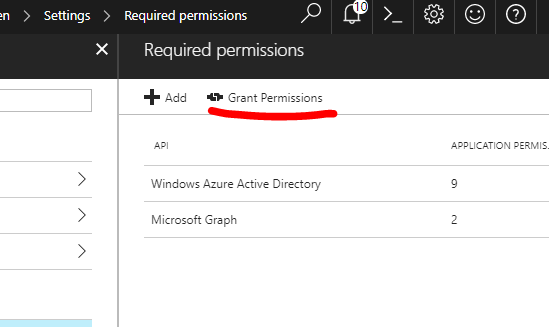
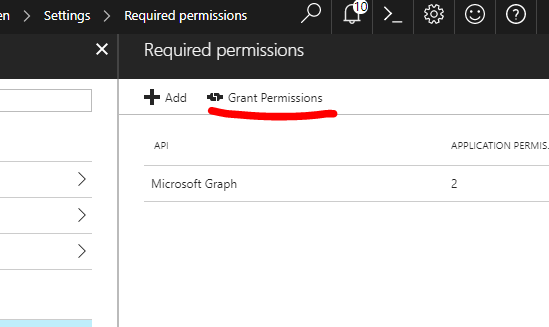
update directory docs

Changed region(s): [[0.2787, 0.6422, 0.4335, 0.7034], [0.2787, 0.5505, 0.5883, 0.581], [0.8051, 0.5505, 0.8361, 0.581]]

diff --git a/_articles/directory-connector/azure-active-directory.md b/_articles/directory-connector/azure-active-directory.md
@@ -43,9 +43,7 @@ This article will cover how to connect the Bitwarden Directory Connector tool to
 
 1. Select the **Bitwarden** application you created in the previous section.
 2. Navigate to **Settings** and select **Required Permissions**.
-3. Select the existing **Windows Azure Active Directory** API.
-4. Check **all** Application and Delegated permissions and click **Save**.
-   {% image directory-connector/azure/directory-permissions.png %}
+3. Delete the existing **Windows Azure Active Directory** API permission set that is automatically created by default. It is not needed.
 5. Select the **Add** button to create a new API permission set.
 6. For step 1, **Select an API** for **Microsoft Graph**.
 7. For step 2, **Select Permissions** for the following:
@@ -78,15 +76,15 @@ This article will cover how to connect the Bitwarden Directory Connector tool to
 
 ## Get Your Tenant Hostname
 
-1. Select your username in the top right corner of the Azure Portal.
+1. Select the **Directory and Subscription** filter in the top right corner of the Azure Portal.
 2. Note the **hostname** value that appears under your directory (ex. company.onmicrosoft.com). This is your **Tenant** hostname. Copy the **Tenant** hostname to a safe place. We will need to reference it later.
    {% image directory-connector/azure/tenant.png %}
 
 ## Configure Directory Connector
 
-1. Launch the Directory Connector console by double clicking the shortcut. 
-2. Select option 3 (Configure directory connection) from the main menu.
-3. Select **Azure Active Directory** as the type.
+1. Launch the Directory Connector desktop application
+2. Go to the **Settings** tab.
+3. Select **Azure Active Directory** as the directory type.
 6. Enter the **Tenant** hostname that you copied from the steps above (ex. company.onmicrosoft.com).
 7. Enter the **Application ID** that you copied from the steps above.
 8. Enter the Application **Secret** Key that you copied from the steps above.
@@ -94,7 +92,6 @@ This article will cover how to connect the Bitwarden Directory Connector tool to
 Congrats! You are done configuring Azure Active Directory with the Bitwarden Directory Connector.
 
 ## Testing
-
 
 {% note %}
 It can take up to 15 minutes for the granted permissions for your application to properly propagate. You may receive "Insufficient privileges to complete the operation" errors in the meantime.

diff --git a/_articles/directory-connector/gsuite-directory.md b/_articles/directory-connector/gsuite-directory.md
@@ -85,15 +85,13 @@ If you already have a Google Cloud project available, you can skip this step and
 
 ## Configure Directory Connector
 
-1. Locate the secret key JSON file that was downloaded whenever you created your service account in the steps above.
-2. Copy this file to the Bitwarden Directory Connector program data folder at `C:/ProgramData/bitwarden/Directory Connector`.
-   - Optionally rename the JSON file to something that is easier to remember, such as `client_secret.json`
-3. Launch the Directory Connector console by double clicking the shortcut. 
-4. Select option 3 (Configure directory connection) from the main menu.
-5. Select **G Suite Directory** as the type.
-6. Enter the name of the JSON file that you copied in step 2.
-7. Enter the domain of your G Suite account.
-8. Enter the email address of an admin user that has full access to the G Suite directory (such as your own).
+1. Launch the Directory Connector desktop application
+2. Go to the **Settings** tab.
+3. Select **G Suite Directory** as the directory type.
+4. Enter the **Domain** of your G Suite account.
+5. Enter the email address of an **Admin User** that has full access to the G Suite directory (such as your own).
+6. If you have one, enter the **Customer Id** of your directory (most users won't need to enter a Customer Id).
+7. Select the **JSON Key File** that was downloaded whenever you created your service account in the steps above. The **Client Email** and **Private Key** will be automatically extracted from this key file for you.
 
 Congrats! You are done configuring G Suite with the Bitwarden Directory Connector.
 

diff --git a/_articles/directory-connector/ldap-directory.md b/_articles/directory-connector/ldap-directory.md
@@ -50,9 +50,10 @@ The following options can be set:
 
 ## Configuring Sync Settings
 
-1. Launch the Directory Connector console by double clicking the shortcut.
-2. Select option 4 (Configure sync) from the main menu.
-3. Step through and set each sync configuration setting.
+1. Launch the Directory Connector desktop application
+2. Go to the **Settings** tab.
+3. Select **Active Directory / LDAP** as the directory type.
+3. Specify the appropriate settings for your Active Directory or LDAP server.
 
 {% table %}
 
